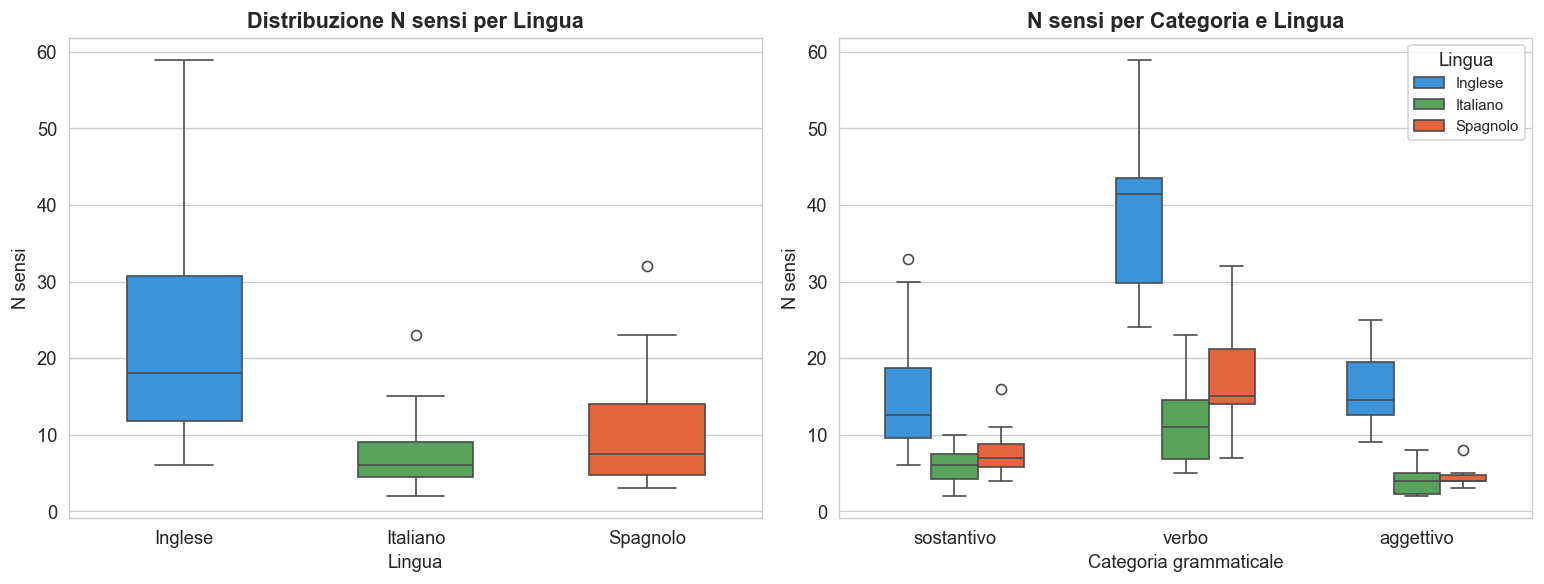
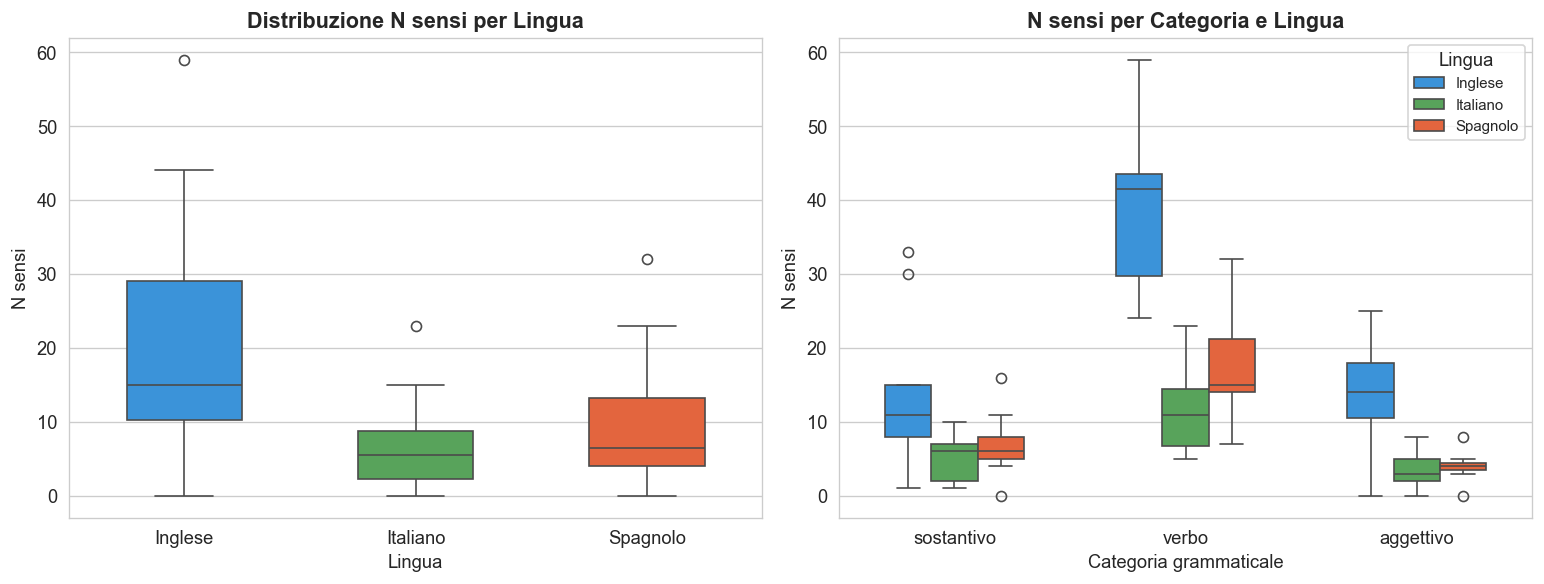
tln

diff --git a/TLN/Parte3DiCaro/Lab3.py b/TLN/Parte3DiCaro/Lab3.py
@@ -48,7 +48,8 @@ LEMMI = [
     ("right", "giusto", "correcto", "aggettivo"),
     ("open", "aperto", "abierto", "aggettivo"),
     ("deep", "profondo", "profundo", "aggettivo"),
-]
+    ("fsddfewd", "sdffsdf", "fsdsdfvfsd", "aggettivo"),
+    ("hepatitis", "epatite", "hepatitis", "sostantivo"),]
 
 LINGUE = {"eng": "Inglese", "ita": "Italiano", "spa": "Spagnolo"}
 POS_MAP = {
@@ -163,7 +164,7 @@ def stampa_statistiche(df):
             mediana_sensi=("n_sensi", "median"),
             max_sensi=("n_sensi", "max"),
             media_entropia=("entropia", "mean"),
-            media_top1=("top1_share", "mean"),
+            media_top1=("top1_share", "mean"),#il top 1 share medio indica quanto il senso principale domina la distribuzione dei sensi
             # monosemici = esattamente 1 senso; zero_sensi = nessun senso trovato
             # (buco di copertura OMW, non va confuso con la monosemia)
             monosemici=("n_sensi", lambda x: (x == 1).sum()),
